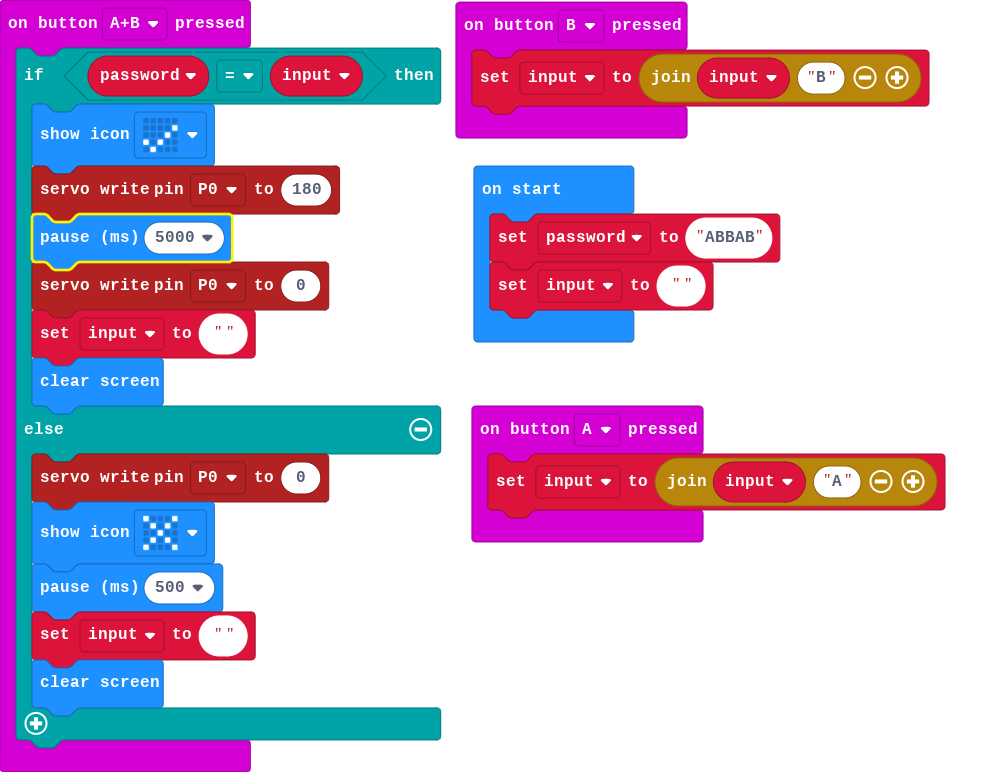
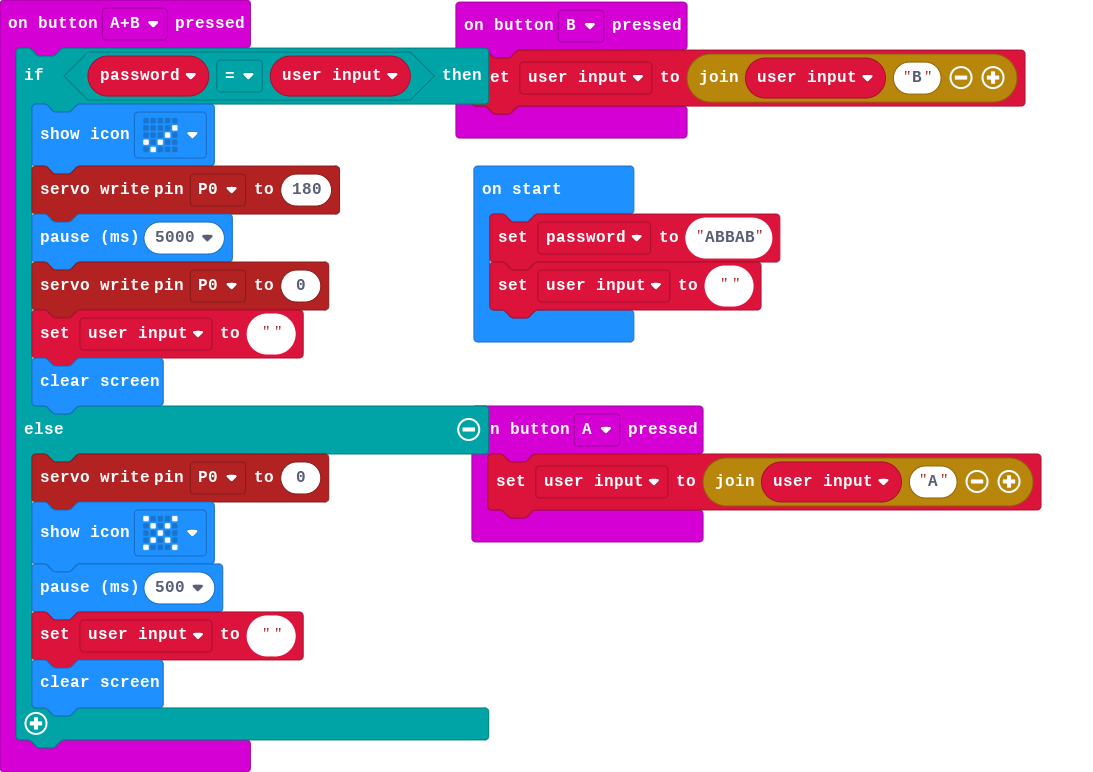
Update main.blocks, main.ts

diff --git a/main.ts b/main.ts
@@ -1,26 +1,26 @@
 input.onButtonPressed(Button.A, function () {
-    input2 = "" + input2 + "A"
+    user_input = "" + user_input + "A"
 })
 input.onButtonPressed(Button.AB, function () {
-    if (password == input2) {
+    if (password == user_input) {
         basic.showIcon(IconNames.Yes)
         pins.servoWritePin(AnalogPin.P0, 180)
         basic.pause(5000)
         pins.servoWritePin(AnalogPin.P0, 0)
-        input2 = ""
+        user_input = ""
         basic.clearScreen()
     } else {
         pins.servoWritePin(AnalogPin.P0, 0)
         basic.showIcon(IconNames.No)
         basic.pause(500)
-        input2 = ""
+        user_input = ""
         basic.clearScreen()
     }
 })
 input.onButtonPressed(Button.B, function () {
-    input2 = "" + input2 + "B"
+    user_input = "" + user_input + "B"
 })
-let input2 = ""
+let user_input = ""
 let password = ""
 password = "ABBAB"
-input2 = ""
+user_input = ""
